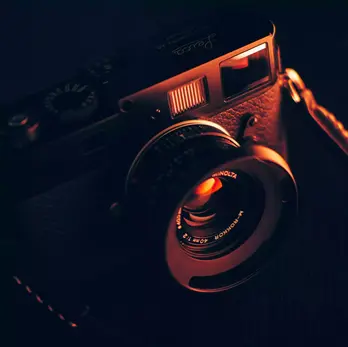
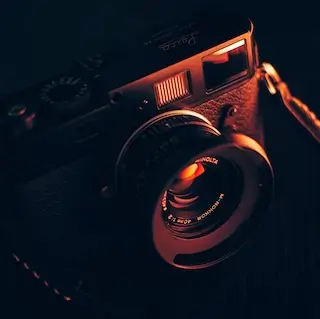
Rechange images (better quality and resize) + alt

diff --git a/index.html b/index.html
@@ -22,7 +22,7 @@
 			<li><a href="#gallery">Galerie</a></li>
 			<li><a href="#services">Service</a></li>
 			<li><a href="#contact">Contact</a></li>
-			<li><a class="social-link" href="https://www.instagram.com/ninacarducci.photo/?hl=fr" target="_blank"><img src="assets/images/instagram-min.webp" alt=""></a></li>
+			<li><a class="social-link" href="https://www.instagram.com/ninacarducci.photo/?hl=fr" target="_blank"><img src="assets/images/instagram-min.png" alt="Logo instagram"></a></li>
 		</ul>
 	</div>
 </div>
@@ -36,13 +36,13 @@
 		</div>
 		<div class="carousel-inner">
 			<div class="carousel-item active">
-				<img src="./assets/images/slider/ryoji-iwata-wUZjnOv7t0g-unsplash-min.webp" class="d-block w-100" alt="...">
+				<img src="./assets/images/slider/ryoji-iwata-wUZjnOv7t0g-unsplash-large-min.webp" srcset="./assets/images/slider/ryoji-iwata-wUZjnOv7t0g-unsplash-large-min.webp 1900w, ./assets/images/slider/ryoji-iwata-wUZjnOv7t0g-unsplash-medium-min.webp 1280w, ./assets/images/slider/ryoji-iwata-wUZjnOv7t0g-unsplash-small-min.webp 650w, ./assets/images/slider/ryoji-iwata-wUZjnOv7t0g-unsplash-400w.webp 400w" class="d-block" alt="Photo d'un homme portant un sac, qui sur un passage piéton">
 			</div>
 			<div class="carousel-item">
-				<img src="./assets/images/slider/nicholas-green-nPz8akkUmDI-unsplash-min.webp" class="d-block w-100" alt="...">
+				<img src="./assets/images/slider/nicholas-green-nPz8akkUmDI-unsplash-large-min.webp" srcset="./assets/images/slider/nicholas-green-nPz8akkUmDI-unsplash-large-min.webp 1900w, ./assets/images/slider/nicholas-green-nPz8akkUmDI-unsplash-medium-min.webp 1280w, ./assets/images/slider/nicholas-green-nPz8akkUmDI-unsplash-small-min.webp 650w, ./assets/images/slider/nicholas-green-nPz8akkUmDI-unsplash-400w.webp 400w" class="d-block" alt="Photo d'une foule qui crie dans un concert">
 			</div>
 			<div class="carousel-item">
-				<img src="./assets/images/slider/edward-cisneros-3_h6-1NPDGw-unsplash-min.webp" class="d-block w-100" alt="...">
+				<img src="./assets/images/slider/edward-cisneros-3_h6-1NPDGw-unsplash-large-min.webp"  srcset="./assets/images/slider/edward-cisneros-3_h6-1NPDGw-unsplash-large-min.webp 1900w,./assets/images/slider/edward-cisneros-3_h6-1NPDGw-unsplash-medium-min.webp 1280w, ./assets/images/slider/edward-cisneros-3_h6-1NPDGw-unsplash-small-min.webp 650w, ./assets/images/slider/edward-cisneros-3_h6-1NPDGw-unsplash-400w.webp 400w" class="d-block" alt="Photo d'un couple de mariés qui s'embrassent">
 			</div>
 		</div>
 		<button class="carousel-control-prev" type="button" data-bs-target="#carouselExampleIndicators" data-bs-slide="prev">
@@ -57,7 +57,7 @@
 </div>
 <div id="about">
 	<div class="picture left">
-		<img src="./assets/images/nina-min.webp">
+		<img src="./assets/images/nina-min.webp" alt="Autoportrait de la photographe Nina Carducci">
 	</div>
 	<div id="about-me">
 		<h3 class="about-me__title">A propos de moi</h3>
@@ -70,15 +70,15 @@
 	<h3 class="title">Portfolio</h3>
 	<div class="container py-3">
 		<div class="gallery" style="display: none">
-			<img data-gallery-tag="Concert" class="gallery-item" src="./assets/images/gallery/concerts/aaron-paul-wnX-fXzB6Cw-unsplash-min.webp"/>
-			<img data-gallery-tag="Entreprises" class="gallery-item" src="./assets/images/gallery/entreprise/ali-morshedlou-WMD64tMfc4k-unsplash-min.webp"/>
-			<img data-gallery-tag="Entreprises" class="gallery-item" src="./assets/images/gallery/entreprise/jason-goodman-tHO1_OuKbg0-unsplash-min.webp"/>
-			<img data-gallery-tag="Mariages" class="gallery-item" src="./assets/images/gallery/mariage/hannah-busing-RvF2R_qMpRk-unsplash-min.webp"/>
-			<img data-gallery-tag="Portrait" class="gallery-item" src="./assets/images/gallery/portraits/ade-tunji-rVkhWWZFAtQ-unsplash-min.webp"/>
-			<img data-gallery-tag="Mariages" class="gallery-item" src="./assets/images/gallery/mariage/jakob-owens-SiniLJkXhMc-unsplash-min.webp"/>
-			<img data-gallery-tag="Portrait" class="gallery-item" src="./assets/images/gallery/portraits/nino-van-prattenburg--443cl1uR_8-unsplash-min.webp"/>
-			<img data-gallery-tag="Concert" class="gallery-item" src="./assets/images/gallery/concerts/austin-neill-hgO1wFPXl3I-unsplash-min.webp"/>
-			<img data-gallery-tag="Entreprises" class="gallery-item" src="./assets/images/gallery/entreprise/mateus-campos-felipe-Fsgzm8N0hIY-unsplash-min.webp"/>
+			<img data-gallery-tag="Concert" class="gallery-item" src="./assets/images/gallery/concerts/aaron-paul-wnX-fXzB6Cw-unsplash-min.webp" alt="Concert de Aaron Paul"/>
+			<img data-gallery-tag="Entreprises" class="gallery-item" src="./assets/images/gallery/entreprise/ali-morshedlou-WMD64tMfc4k-unsplash-min.webp" alt="Portrait d'un chef d'entreprise"/>
+			<img data-gallery-tag="Entreprises" class="gallery-item" src="./assets/images/gallery/entreprise/jason-goodman-tHO1_OuKbg0-unsplash-min.webp" alt="Portrait d'une femme en entreprise"/>
+			<img data-gallery-tag="Mariages" class="gallery-item" src="./assets/images/gallery/mariage/hannah-busing-RvF2R_qMpRk-unsplash-min.webp" alt="Images de mains de mariés"/>
+			<img data-gallery-tag="Portrait" class="gallery-item" src="./assets/images/gallery/portraits/ade-tunji-rVkhWWZFAtQ-unsplash-min.webp" alt="Portrait d'un homme qui ferme les yeux"/>
+			<img data-gallery-tag="Mariages" class="gallery-item" src="./assets/images/gallery/mariage/jakob-owens-SiniLJkXhMc-unsplash-min.webp" alt="Photo de mariés sous un arbre"/>
+			<img data-gallery-tag="Portrait" class="gallery-item" src="./assets/images/gallery/portraits/nino-van-prattenburg--443cl1uR_8-unsplash-min.webp" alt="Portrait d'une femme avec des lunettes"/>
+			<img data-gallery-tag="Concert" class="gallery-item" src="./assets/images/gallery/concerts/austin-neill-hgO1wFPXl3I-unsplash-min.webp" alt="Photo d'Austin Neill pendant un concert"/>
+			<img data-gallery-tag="Entreprises" class="gallery-item" src="./assets/images/gallery/entreprise/mateus-campos-felipe-Fsgzm8N0hIY-unsplash-min.webp" alt="Photo d'une femme en entreprise avec son ordinateur"/>
 		</div>
 	</div>
 	<div class="quote">
@@ -150,7 +150,7 @@
 			</form>
 		</div>
 		<div class="picture right">
-			<img src="./assets/images/camera-min.webp">
+			<img src="./assets/images/camera-min.webp" alt="Photo d'un appareil photo">
 		</div>
 	</div>
 </div>

diff --git a/assets/style.css b/assets/style.css
@@ -100,7 +100,7 @@ body {
 .gallery .nav {
 	justify-content: center;
 }
-.nav-pills .nav-link.active, .nav-pills .show > .nav-link {
+.nav-pills .nav-link.active-tag, .nav-pills .show > .nav-link {
 	color: #fff;
 	background-color: #BEB45A;
 	border-radius:0 ;
